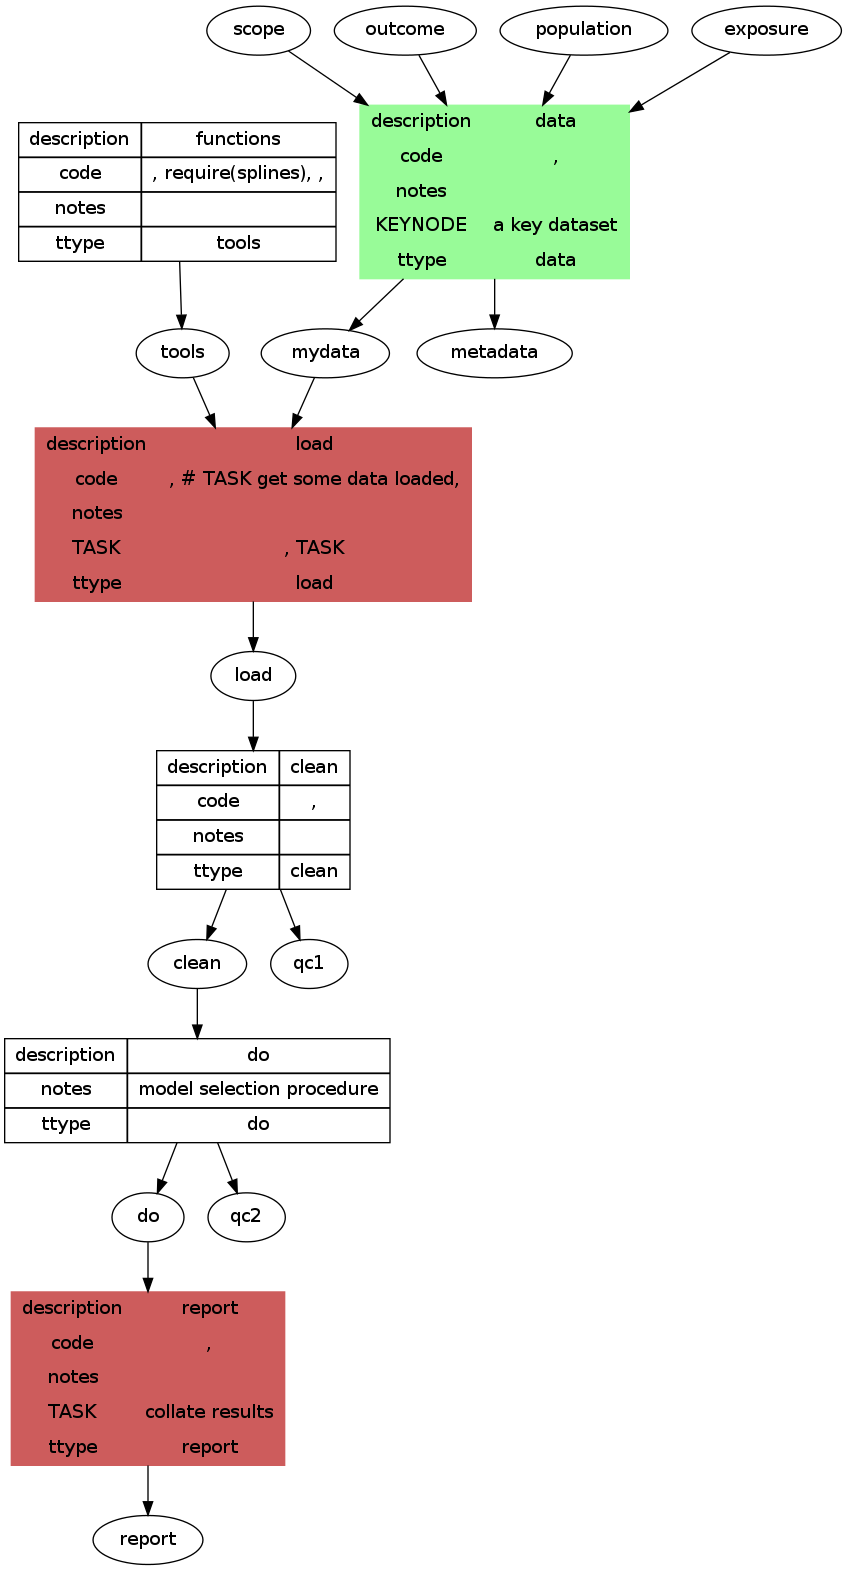
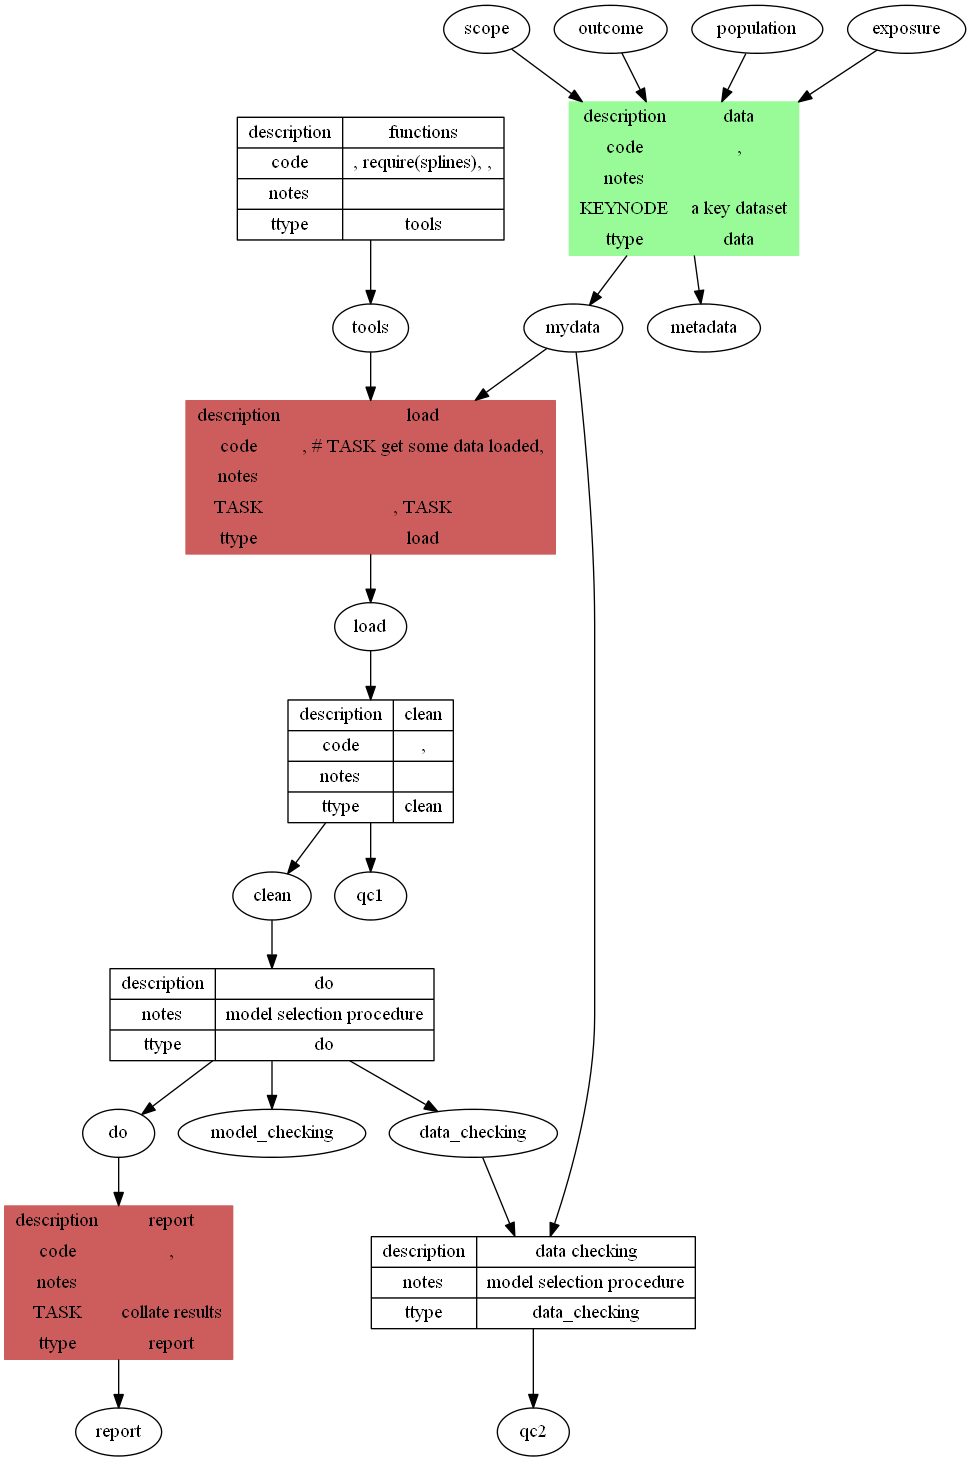
Some fixes

diff --git a/src/transformations_test/reports/transformations_test_transformations.html b/src/transformations_test/reports/transformations_test_transformations.html
@@ -15,11 +15,12 @@ return false;
 //-->
 </SCRIPT>
 <map id="transformations" name="transformations">
-<area shape="rect" id="node1" onClick=popup("transformations_test_transformations_files/t1.txt") title="{{ {description|code|notes|ttype} | {functions|, require(splines), , ||tools} }}" alt="" coords="19,122,336,262"/>
-<area shape="rect" id="node17" onClick=popup("transformations_test_transformations_files/t3.txt") title="{{ {description|code|notes|TASK|ttype} | {load|, # TASK get some data loaded, ||, TASK|load} }}" alt="" coords="36,427,471,602"/>
-<area shape="rect" id="node4" onClick=popup("transformations_test_transformations_files/t2.txt") title="{{ {description|code|notes|KEYNODE|ttype} | {data|, ||a key dataset|data} }}" alt="" coords="360,105,629,279"/>
-<area shape="rect" id="node22" onClick=popup("transformations_test_transformations_files/t4.txt") title="{{ {description|code|notes|ttype} | {clean|, ||clean} }}" alt="" coords="157,750,349,890"/>
-<area shape="rect" id="node28" onClick=popup("transformations_test_transformations_files/t5.txt") title="{{ {description|notes|ttype} | {do|model selection procedure|do} }}" alt="" coords="5,1038,389,1143"/>
-<area shape="rect" id="node34" onClick=popup("transformations_test_transformations_files/t6.txt") title="{{ {description|code|notes|TASK|ttype} | {report|, ||collate results|report} }}" alt="" coords="12,1291,284,1466"/>
+<area shape="rect" id="node1" onClick=popup("transformations_test_transformations_files/t1.txt") title="{{ {description|code|notes|ttype} | {functions|, require(splines), , ||tools} }}" alt="" coords="237,117,504,241"/>
+<area shape="rect" id="node17" onClick=popup("transformations_test_transformations_files/t3.txt") title="{{ {description|code|notes|TASK|ttype} | {load|, # TASK get some data loaded, ||, TASK|load} }}" alt="" coords="186,400,555,555"/>
+<area shape="rect" id="node4" onClick=popup("transformations_test_transformations_files/t2.txt") title="{{ {description|code|notes|KEYNODE|ttype} | {data|, ||a key dataset|data} }}" alt="" coords="569,101,799,256"/>
+<area shape="rect" id="node36" onClick=popup("transformations_test_transformations_files/t6.txt") title="{{ {description|notes|ttype} | {data checking|model selection procedure|data_checking} }}" alt="" coords="371,1236,695,1329"/>
+<area shape="rect" id="node22" onClick=popup("transformations_test_transformations_files/t4.txt") title="{{ {description|code|notes|ttype} | {clean|, ||clean} }}" alt="" coords="288,699,453,823"/>
+<area shape="rect" id="node28" onClick=popup("transformations_test_transformations_files/t5.txt") title="{{ {description|notes|ttype} | {do|model selection procedure|do} }}" alt="" coords="110,968,433,1061"/>
+<area shape="rect" id="node41" onClick=popup("transformations_test_transformations_files/t7.txt") title="{{ {description|code|notes|TASK|ttype} | {report|, ||collate results|report} }}" alt="" coords="5,1205,232,1360"/>
 </map>
 <IMG SRC="transformations_test_transformations_files/transformations_test_transformations.jpg" USEMAP="#transformations" />

diff --git a/src/transformations_test/reports/transformations_test_transformations_files/transformations_test_transformations_temp.html b/src/transformations_test/reports/transformations_test_transformations_files/transformations_test_transformations_temp.html
@@ -1,8 +1,9 @@
 <map id="transformations" name="transformations">
-<area shape="rect" id="node1" href="STARTt1END" title="{{ {description|code|notes|ttype} | {functions|, require(splines), , ||tools} }}" alt="" coords="19,122,336,262"/>
-<area shape="rect" id="node17" href="STARTt3END" title="{{ {description|code|notes|TASK|ttype} | {load|, # TASK get some data loaded, ||, TASK|load} }}" alt="" coords="36,427,471,602"/>
-<area shape="rect" id="node4" href="STARTt2END" title="{{ {description|code|notes|KEYNODE|ttype} | {data|, ||a key dataset|data} }}" alt="" coords="360,105,629,279"/>
-<area shape="rect" id="node22" href="STARTt4END" title="{{ {description|code|notes|ttype} | {clean|, ||clean} }}" alt="" coords="157,750,349,890"/>
-<area shape="rect" id="node28" href="STARTt5END" title="{{ {description|notes|ttype} | {do|model selection procedure|do} }}" alt="" coords="5,1038,389,1143"/>
-<area shape="rect" id="node34" href="STARTt6END" title="{{ {description|code|notes|TASK|ttype} | {report|, ||collate results|report} }}" alt="" coords="12,1291,284,1466"/>
+<area shape="rect" id="node1" href="STARTt1END" title="{{ {description|code|notes|ttype} | {functions|, require(splines), , ||tools} }}" alt="" coords="237,117,504,241"/>
+<area shape="rect" id="node17" href="STARTt3END" title="{{ {description|code|notes|TASK|ttype} | {load|, # TASK get some data loaded, ||, TASK|load} }}" alt="" coords="186,400,555,555"/>
+<area shape="rect" id="node4" href="STARTt2END" title="{{ {description|code|notes|KEYNODE|ttype} | {data|, ||a key dataset|data} }}" alt="" coords="569,101,799,256"/>
+<area shape="rect" id="node36" href="STARTt6END" title="{{ {description|notes|ttype} | {data checking|model selection procedure|data_checking} }}" alt="" coords="371,1236,695,1329"/>
+<area shape="rect" id="node22" href="STARTt4END" title="{{ {description|code|notes|ttype} | {clean|, ||clean} }}" alt="" coords="288,699,453,823"/>
+<area shape="rect" id="node28" href="STARTt5END" title="{{ {description|notes|ttype} | {do|model selection procedure|do} }}" alt="" coords="110,968,433,1061"/>
+<area shape="rect" id="node41" href="STARTt7END" title="{{ {description|code|notes|TASK|ttype} | {report|, ||collate results|report} }}" alt="" coords="5,1205,232,1360"/>
 </map>
